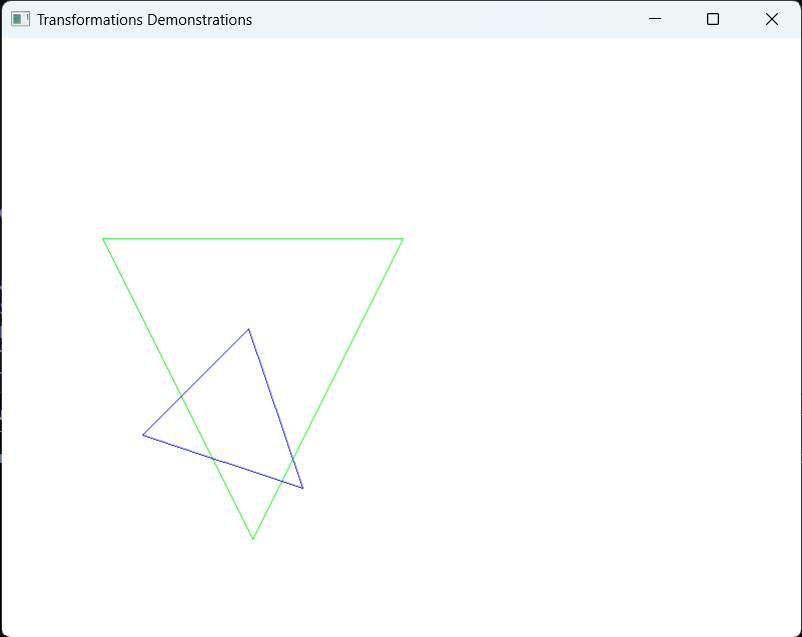
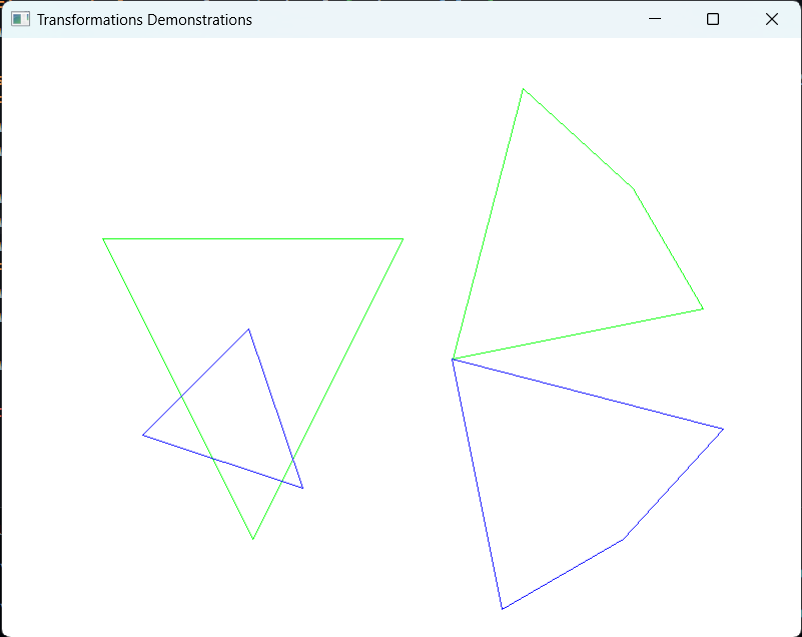
More shapes added.

diff --git a/src/TransformationsDemo/main.cpp b/src/TransformationsDemo/main.cpp
@@ -9,31 +9,38 @@ int main()
     ColorRGB blue(0, 0, 255);
     ColorRGB green(0, 255, 0);
 
-    std::vector<std::pair<int, int>> points = {{100, 200}, {400, 200}, {250, 500}};
+    std::vector<Point2D> points = {{100, 200}, {400, 200}, {250, 500}};
     int refX = 250;
     int refY = 500;
 
-    auto draw = [&]()
-    {
-        window.lineDDA(points[0].first, points[0].second, points[1].first, points[1].second);
-        window.lineDDA(points[1].first, points[1].second, points[2].first, points[2].second);
-        window.lineDDA(points[2].first, points[2].second, points[0].first, points[0].second);
-    };
+    Figure2DSimple triangle(points, false);
+    
+    window.setColor(green);
+    window.drawFigureSimple(triangle);
 
-    window.Run([&]
-               {
-                   window.setColor(green);
-                   draw();
+    window.clearTransformations();
+    window.addScaling2D(0.5f, 0.5f, refX, refY);
+    window.addRotation2D(-45.0f, refX, refY);
+    window.addTranslation2D(50, -50);
+    window.applyTransformations(points);
 
-                   window.clearTransformations();
-                   window.addScaling2D(0.5f, 0.5f, refX, refY);
-                   window.addRotation2D(-45.0f, refX, refY);
-                   window.addTranslation2D(50, -50);
-                   window.applyTransformations(points);
+    window.setColor(blue);
+    Figure2DSimple transformedTriangle(points, false);
+    window.drawFigureSimple(transformedTriangle);
 
-                   window.setColor(blue);
-                   draw(); 
-                });
+    std::vector<Point2D> polygon_pts = {{520, 50}, {630, 150}, {700, 270}, {450, 320}};
+    Figure2DSimple polygon(polygon_pts, false);
+    window.setColor(green);
+    window.drawFigureSimple(polygon);
+
+    window.clearTransformations();
+    window.addRotation2D(90, 450, 320);
+    window.applyTransformations(polygon_pts);
+    Figure2DSimple transformedPolygon(polygon_pts, false);
+    window.setColor(blue);
+    window.drawFigureSimple(transformedPolygon);
+
+    window.ShowOnce();
 
     return 0;
 }
